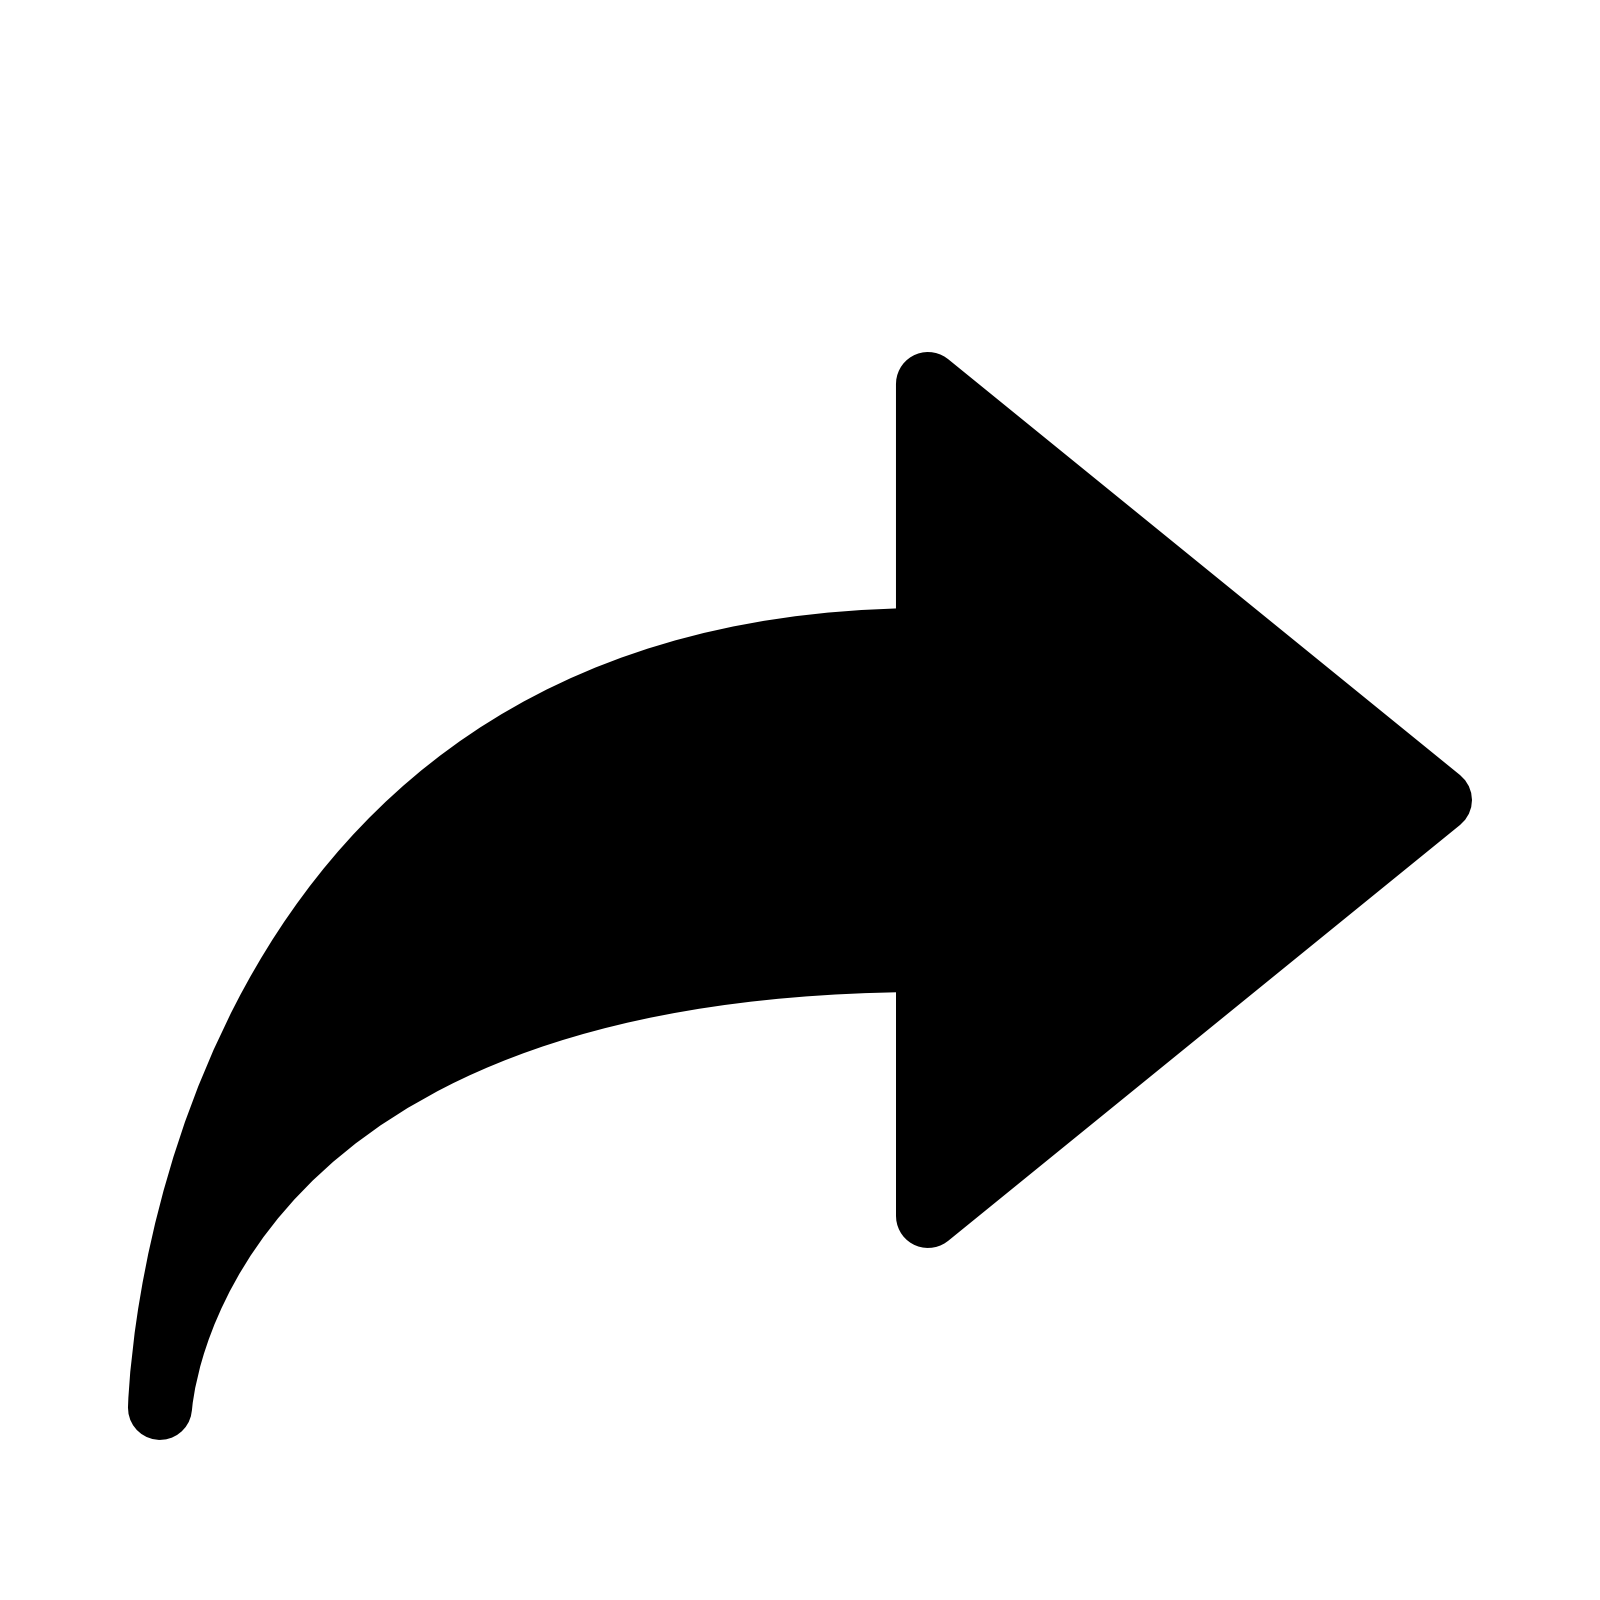
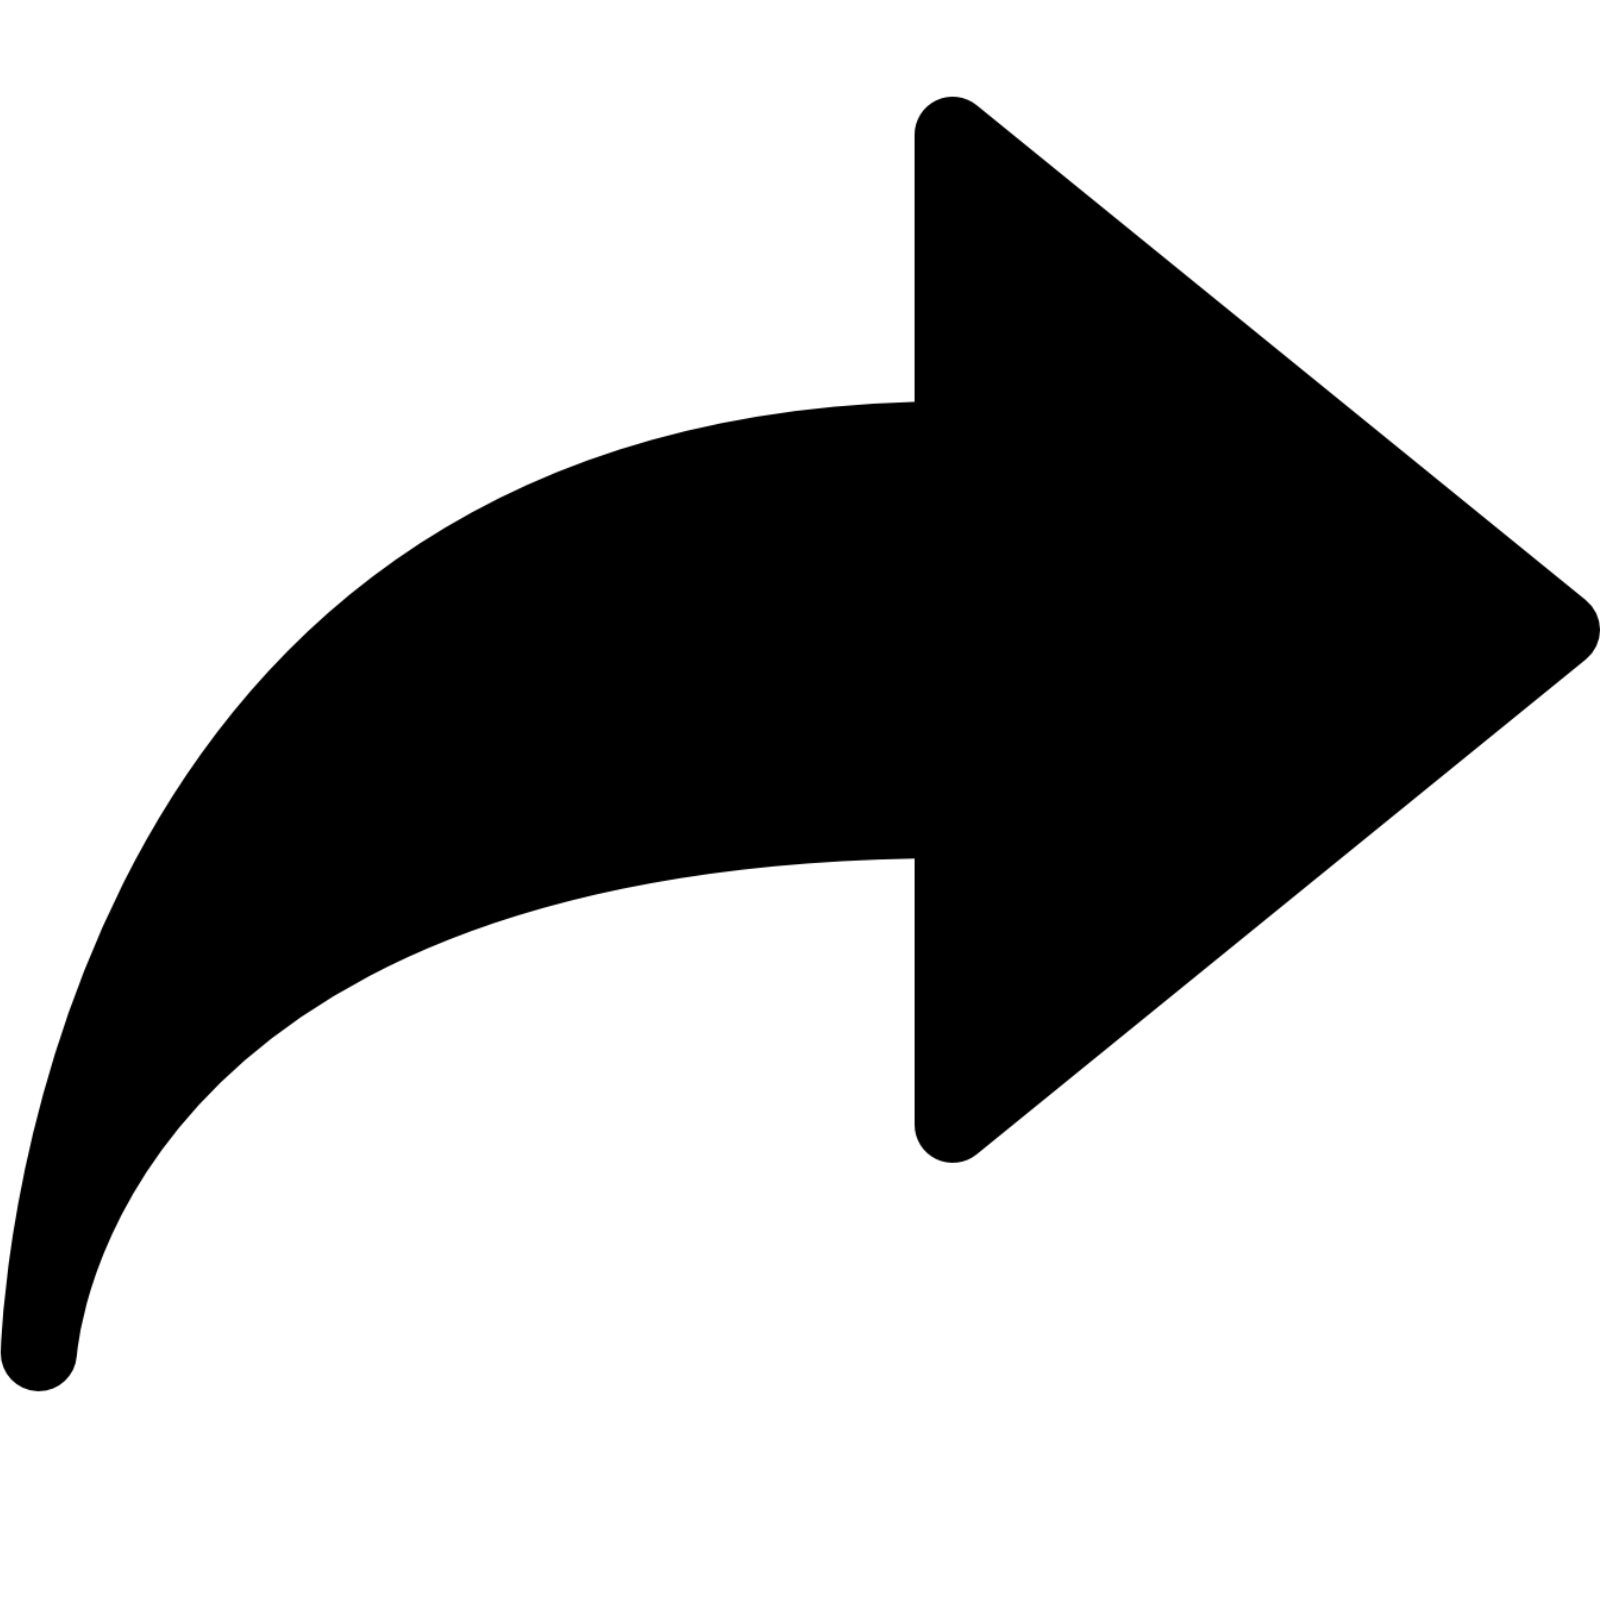
cambio icona share

Changed region(s): [[0.0, 0.0625, 1.0, 0.9062]]

diff --git a/studio_familiare.php b/studio_familiare.php
@@ -199,7 +199,7 @@ usort($studi, function ($a, $b) {
                 </button>
             </div>
             <div class="studio-extra-fields" id="studioExtraFields" style="display:none;">
-                <textarea name="descrizione" rows="2" placeholder="Descrizione"></textarea>
+                <textarea name="descrizione" rows="2" placeholder="Descrizione..."></textarea>
                 <textarea name="appunti" rows="2" placeholder="Appunti..."></textarea>
                 <input type="text" name="link" placeholder="Link...">
                 <div class="studio-form-row">
